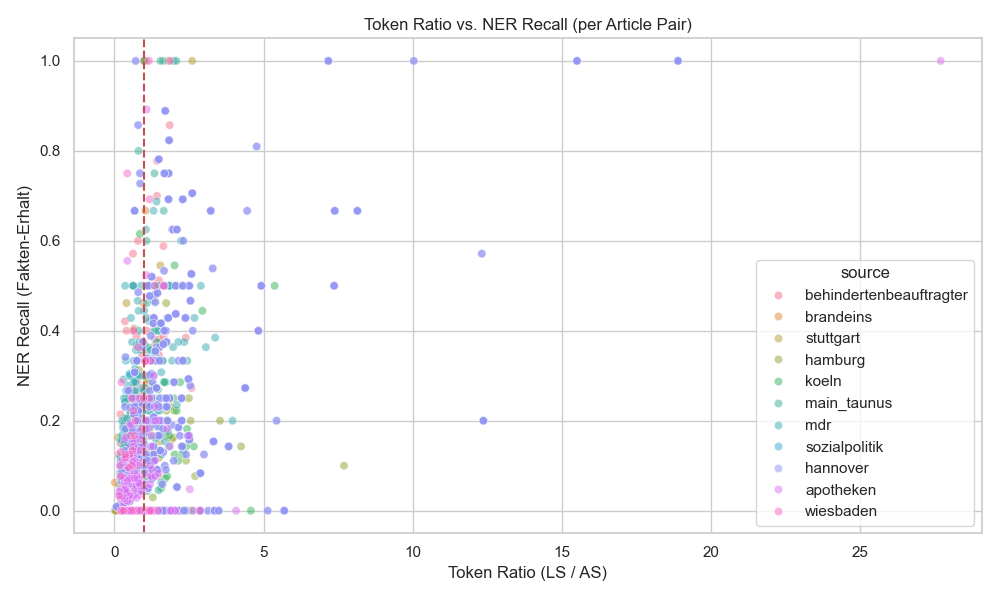
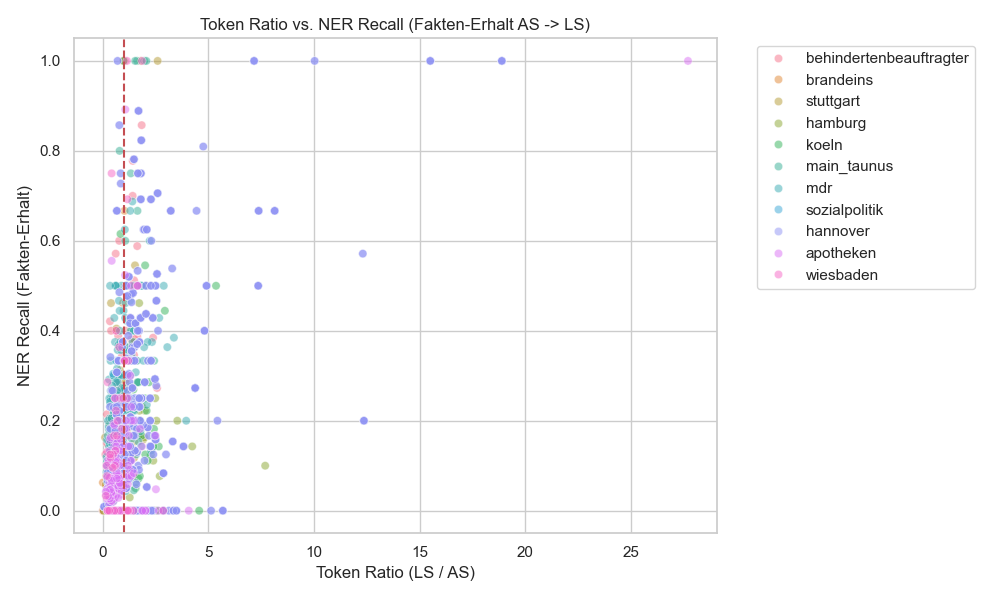
feat: add manual audit

diff --git a/scripts/visualize_analysis.py b/scripts/visualize_analysis.py
@@ -11,26 +11,31 @@ os.makedirs(OUTPUT_DIR, exist_ok=True)
 def create_visualizations():
     df = pd.read_csv(INPUT_CSV)
     
+    # Filter extremes for cleaner plots (optional, but good for token_ratio vs ner_recall)
+    # We will plot the full dataset, but be aware of outliers.
+    
     # Set style
     sns.set_theme(style="whitegrid")
     plt.rcParams.update({'font.size': 12})
     
-    # 1. Token Ratio vs. NER Recall
+    # 1. Token Ratio vs. NER Recall (AS -> LS)
     plt.figure(figsize=(10, 6))
-    sns.scatterplot(data=df, x='token_ratio', y='ner_recall', hue='source', alpha=0.5)
-    plt.title('Token Ratio vs. NER Recall (per Article Pair)')
+    sns.scatterplot(data=df, x='token_ratio', y='ner_recall_as_ls', hue='source', alpha=0.5)
+    plt.title('Token Ratio vs. NER Recall (Fakten-Erhalt AS -> LS)')
     plt.xlabel('Token Ratio (LS / AS)')
     plt.ylabel('NER Recall (Fakten-Erhalt)')
     plt.axvline(1.0, color='r', linestyle='--')
+    # Move legend outside
+    plt.legend(bbox_to_anchor=(1.05, 1), loc='upper left')
     plt.tight_layout()
     plt.savefig(os.path.join(OUTPUT_DIR, 'token_ratio_vs_ner_recall.png'))
     plt.close()
     
-    # 2. Semantic Similarity by Source
+    # 2. Semantic Similarity by Source (Jina 512)
     plt.figure(figsize=(12, 6))
-    sns.boxplot(data=df, x='source', y='semantic_similarity')
+    sns.boxplot(data=df, x='source', y='semantic_similarity_512')
     plt.xticks(rotation=45)
-    plt.title('Semantische Ähnlichkeit nach Quelle')
+    plt.title('Semantische Ähnlichkeit nach Quelle (Jina 512 Tokens)')
     plt.ylabel('Cosine Similarity (SBERT)')
     plt.tight_layout()
     plt.savefig(os.path.join(OUTPUT_DIR, 'semantic_similarity_by_source.png'))
@@ -56,7 +61,7 @@ def create_visualizations():
     plt.savefig(os.path.join(OUTPUT_DIR, 'pos_distribution_comparison.png'))
     plt.close()
 
-    # 5. Sentence Length Comparison
+    # 4. Sentence Length Comparison
     if 'as_avg_sent_len' in df.columns:
         plt.figure(figsize=(10, 6))
         sent_len_data = {
@@ -70,6 +75,21 @@ def create_visualizations():
         plt.tight_layout()
         plt.savefig(os.path.join(OUTPUT_DIR, 'sentence_length_comparison.png'))
         plt.close()
+
+    # 5. Bidirectional NER Comparison
+    ner_cols = ['ner_recall_as_ls', 'ner_recall_ls_as']
+    mean_ner = df.groupby('source')[ner_cols].mean().reset_index()
+    mean_ner.columns = ['Quelle', 'AS -> LS (Erhalt)', 'LS -> AS (Treue)']
+    ner_df = mean_ner.melt(id_vars='Quelle', var_name='Richtung', value_name='Recall')
+
+    plt.figure(figsize=(12, 6))
+    sns.barplot(data=ner_df, x='Quelle', y='Recall', hue='Richtung')
+    plt.xticks(rotation=45)
+    plt.title('Faktenerhalt vs. Faktentreue (Bidirektionales NER)')
+    plt.ylabel('Recall')
+    plt.tight_layout()
+    plt.savefig(os.path.join(OUTPUT_DIR, 'bidirectional_ner_comparison.png'))
+    plt.close()
 
 if __name__ == "__main__":
     create_visualizations()

diff --git a/research/08_dataset_analysis.md b/research/08_dataset_analysis.md
@@ -142,6 +142,43 @@ Die statistische Überprüfung ergab eine Korrelation (Pearson) zwischen der **T
 
 **Bedeutung:** Es gibt **keinen signifikanten linearen Zusammenhang** zwischen der Länge eines LS-Textes und seiner semantischen Ähnlichkeit zum Original. Ein Text, der in Leichter Sprache stark verlängert wird (z.B. doppelt so lang wie das Original), transportiert die "Kernbotschaft" (gemessen via Embeddings) nicht automatisch besser oder schlechter als ein Text, der stark gekürzt wurde. Die Art der Übersetzung (Erklärung vs. Auslassung) scheint wichtiger zu sein als die reine Wortanzahl.
 
+### 3.5 Manuelle Auditierung der Extremwerte & Korpus-Bereinigung
+
+Um sicherzustellen, dass die gemessenen Ähnlichkeitswerte tatsächlich auf sprachliche Vereinfachung und nicht auf technische Fehler zurückzuführen sind, wurden die fünf Artikelpaare mit der niedrigsten und der höchsten semantischen Ähnlichkeit (basierend auf dem Jina-Modell, 512 Tokens) manuell geprüft (`results/similarity_extremes.json`).
+
+**Erkenntnisse der Extremwerte (Low Similarity):**
+- **Alignment-Fehler:** Werte unter 0.4 deuten fast immer auf Fehler beim Scraping oder URL-Alignment hin. Ein Beispiel aus der *Apotheken Umschau*: Ein AS-Artikel über den "Amsler-Gitter Netzhaut-Check" wurde fälschlicherweise mit einem LS-Artikel über "Altersbedingte Makula-Degeneration" aligniert. Obwohl beide das Auge behandeln, sind es inhaltlich völlig verschiedene Texte (Ähnlichkeit: 0.27).
+- **Extreme Kürzung (Teaser):** Bei *brand eins* bestand der "Leichte Sprache"-Text teilweise nur aus einem einzigen Satz (z. B. "Niemand hat uns dazu gezwungen. Mai 2022.") gegenüber einem vollen AS-Artikel (Ähnlichkeit: 0.13).
+
+**Erkenntnisse der Extremwerte (High Similarity):**
+- **Identische Texte (Similarity = 1.0):** Bei einigen Paaren (z. B. aus Köln und Stuttgart) lag die Ähnlichkeit bei exakt 1.0. Die Prüfung ergab, dass hier in beiden Versionen identischer Text ausgespielt wurde (teilweise kurze Link-Listen oder Menü-Strukturen, die fälschlicherweise als Artikelinhalt extrahiert wurden).
+
+**Auswirkung auf das Korpus (Bereinigungs-Strategie):**
+Um das Dataset für ein späteres Modelltraining oder tiefergehende Evaluierungen nutzbar zu machen, müssen diese technischen Ausreißer gefiltert werden. Ein Modell würde sonst "lernen", Artikel in völlig andere Themen umzuwandeln oder komplett zu löschen.
+
+Wir schlagen folgenden Filter vor:
+- **Untere Grenze:** `Semantic Similarity < 0.6` (Entfernt Alignment-Fehler und radikale Teaser-Kürzungen).
+- **Obere Grenze:** `Semantic Similarity > 0.98` (Entfernt identische Texte, bei denen keine Übersetzung stattgefunden hat).
+
+**Auswirkung auf die Datensatz-Größe & Tokens:**
+Nach Anwendung des Filters (Similarity zwischen 0.6 und 0.98) ergibt sich folgende Reduktion des Datensatzes:
+
+| Metrik | Unbereinigt | Bereinigt (Sim 0.6 - 0.98) | Erhalt in % |
+| :--- | :--- | :--- | :--- |
+| **Artikelpaare** | 1.526 | 1.459 | 95,61 % |
+| **AS Tokens (Gesamt)** | 1.005.254 | 956.814 | 95,18 % |
+| **LS Tokens (Gesamt)** | 934.880 | 900.913 | 96,37 % |
+
+**Fazit zur Bereinigung:**
+Der Verlust an reinen Trainingsdaten (Tokens) durch diese Bereinigung ist minimal (< 5 %). Gleichzeitig wird jedoch das meiste "Rauschen" (Alignment-Fehler, extreme Kürzungen und komplett identische Texte) entfernt. Dies erhöht die Qualität des Datensatzes (Signal-to-Noise Ratio) für ein eventuelles Modelltraining erheblich.
+
+### 3.6 Linguistische Verschiebungen (Satzlänge & Konjunktionen)
+
+Neben der Semantik und den Entitäten wurden auch klassische linguistische Merkmale über das gesamte Korpus (N=1.526) gemessen. Die Vorgaben der Leichten Sprache (kurze Sätze, Parataxe statt Hypotaxe) spiegeln sich deutlich in den Daten wider:
+
+- **Satzlänge:** Die durchschnittliche Satzlänge in der Alltagssprache beträgt im Korpus **15,6 Tokens** pro Satz. In der Leichten Sprache sinkt dieser Wert drastisch auf **9,1 Tokens** pro Satz (eine Reduktion um ca. 42 %). Quellen wie *brand eins* zeigen sogar eine Halbierung von 20 auf 7 Tokens pro Satz.
+- **Konjunktionen:** Der Anteil der Konjunktionen (Bindewörter, die oft für Nebensätze genutzt werden) sinkt von **4,6 %** in AS auf **3,0 %** in LS. Dies ist ein harter quantitativer Indikator dafür, dass komplexe Nebensatzkonstruktionen (Hypotaxen) durch einfache Hauptsatzreihen (Parataxen) ersetzt wurden.
+
 ## 4. Zeitplan & Organisation
 - [x] Implementierung der verbesserten Metriken (Jina 8192 Tokens & Bidirektionales NER).
 - [x] Durchführung der re-evaluierten Analyse über das gesamte Korpus.
